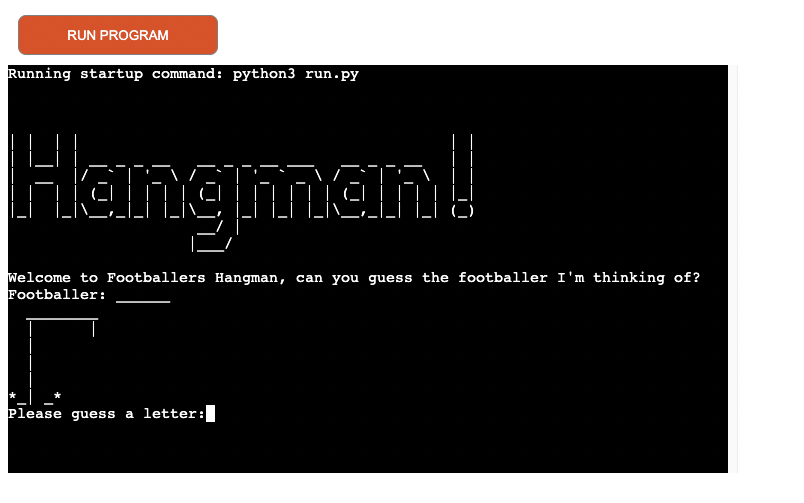
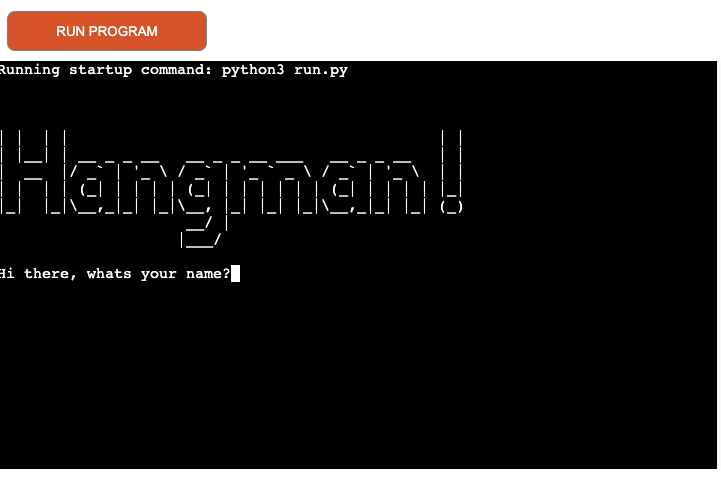
Added rules feature

Changed region(s): [[0.0, 0.0, 1.0, 0.9959]]

diff --git a/README.md b/README.md
@@ -53,9 +53,16 @@ Please see the live site here: [Footballers Hangman](https://footballers-hangman
 
 ### The Welcome Screen:
 
-- When you run the game you will have a welcome screen loaded which shows the game and rules.
+- When you run the game you will have a welcome screen loaded which then asks you for your name.
 
 ![Welcome Screen](./readme-images/welcome-screen.webp)
+
+
+### Rules:
+
+- The game will then feel personalised to you and you will be told the rules on how to play.
+
+![Rules](./readme-images/rules.webp)
 
 
 ### Random Footballer
